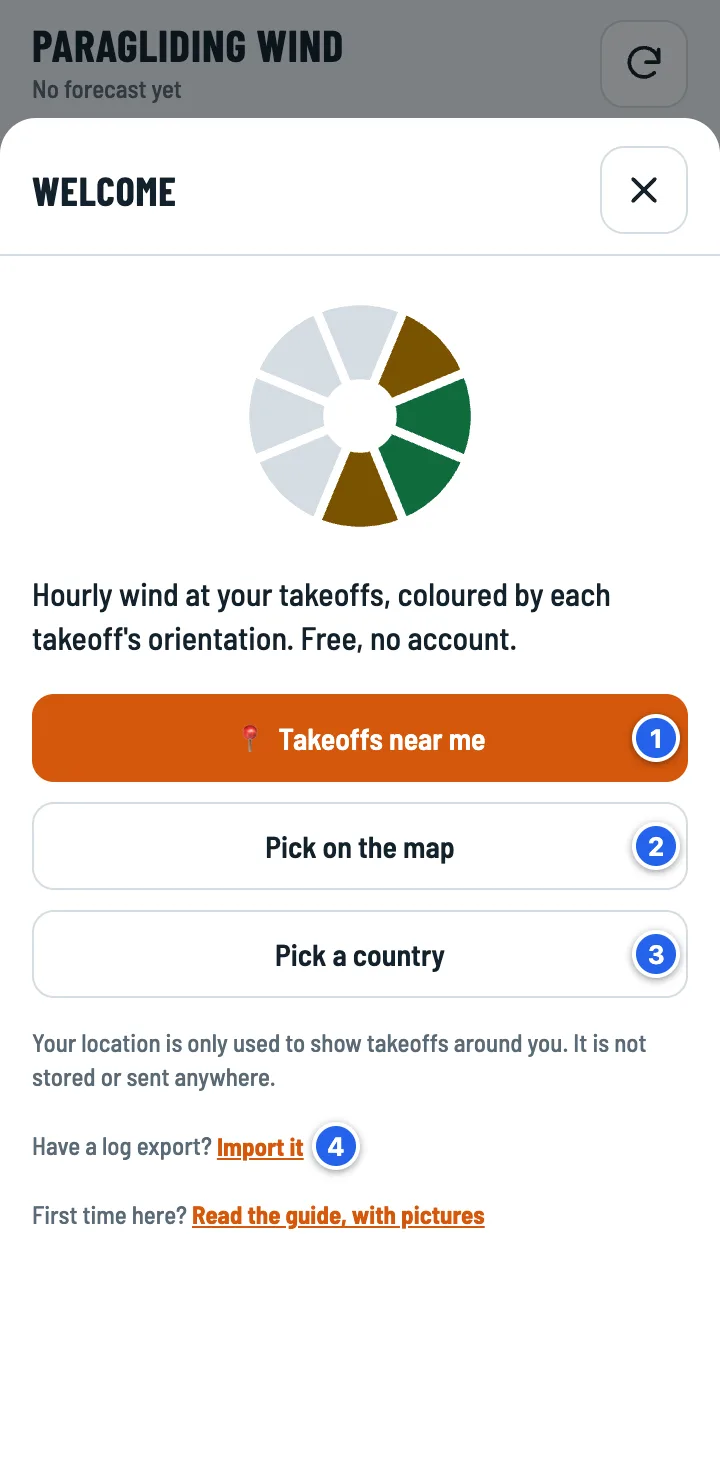
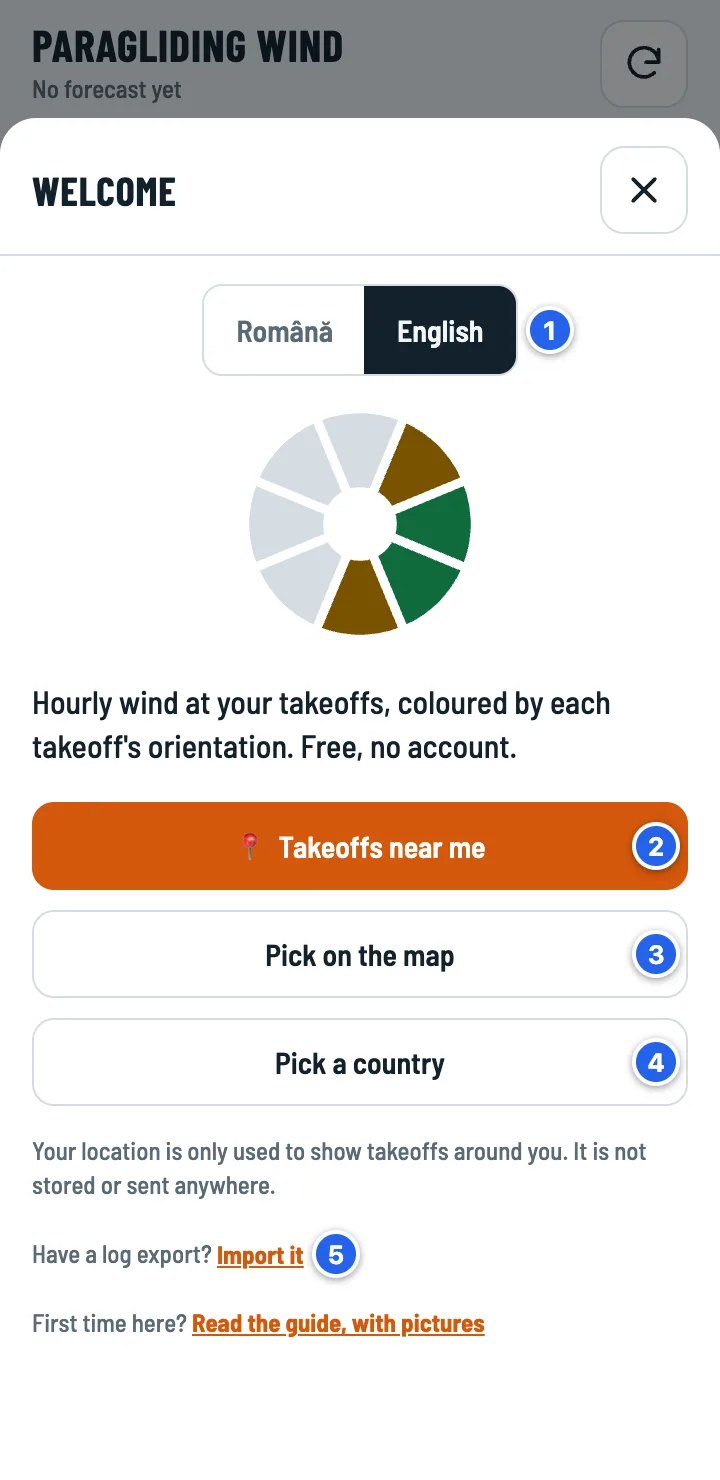
Prima pornire: alegerea limbii (Română / English) chiar în ecranul de bun venit
Până acum limba se schimba doar din Setări, care stau în spatele ecranului de bun venit.
Linkurile reîncarcă pagina cu ?lang= (alegerea se ține minte). Ghidul: pasul nou + captură.

Claude-Session: https://claude.ai/code/session_01AHnFa6r7pKe7n6SbnXpaSQ

diff --git a/docs/index.html b/docs/index.html
@@ -260,6 +260,7 @@ dialog.tall .sheet .body{flex:1;min-height:0;display:flex;flex-direction:column}
 #pkMap{position:absolute;inset:0;background:var(--sunk)}
 .pk-note{margin-top:12px;padding:12px;border-radius:12px;background:var(--sunk);font-size:14px}
 .pk-note b{display:block;margin-bottom:4px}
+.onb-lang{display:flex;justify-content:center;margin:2px 0 6px}
 .onb-hero{display:flex;justify-content:center;margin:8px 0 18px}
 .onb-hero svg{width:120px;height:120px}
 .onb-lead{margin:0;font-size:16px;color:var(--ink)}
@@ -520,7 +521,7 @@ function translateStatic(){
   $('#ver').textContent = t('Versiunea {v}', {v: VERSION});
   for (const a of document.querySelectorAll('#langSeg a')) a.setAttribute('aria-current', String(a.dataset.lang === LANG));
 }
-const VERSION = '5b63f25';
+const VERSION = '766553c';
 const SKY_ICONS = {"sun":[{"d":"M12 7.5 A4.5 4.5 0 1 0 12 16.5 A4.5 4.5 0 1 0 12 7.5 Z","r":"sun","f":1},{"d":"M12 2 V4.2 M12 19.8 V22 M2 12 H4.2 M19.8 12 H22 M4.9 4.9 L6.5 6.5 M17.5 17.5 L19.1 19.1 M4.9 19.1 L6.5 17.5 M17.5 6.5 L19.1 4.9","r":"sun"}],"moon":[{"d":"M19.5 14.6 A7.8 7.8 0 1 1 9.4 4.5 A6.2 6.2 0 0 0 19.5 14.6 Z","r":"ink"}],"partly":[{"d":"M6.03 10.77 A3.5 3.5 0 1 1 12 8.3","r":"sun"},{"d":"M8.5 2.6 V3.9 M2.6 8.3 H3.9 M4.3 4.1 L5.2 5 M12.7 4.1 L11.8 5","r":"sun"},{"d":"M9.5 20 H17.7 A3.4 3.4 0 0 0 18.2 13.23 A4.6 4.6 0 0 0 9.3 12.3 A3.85 3.85 0 0 0 9.5 20 Z","r":"ink"}],"cloud":[{"d":"M7 19 H17.2 A4.3 4.3 0 0 0 17.8 10.44 A5.8 5.8 0 0 0 6.6 9.9 A4.6 4.6 0 0 0 7 19 Z","r":"ink"}],"overcast":[{"d":"M5.2 14.2 A3.6 3.6 0 0 1 6.4 7.3 A5 5 0 0 1 15.6 6.4","r":"ink"},{"d":"M8 20.5 H17.5 A3.6 3.6 0 0 0 18 13.33 A5 5 0 0 0 8.2 12.4 A4.05 4.05 0 0 0 8 20.5 Z","r":"ink"}],"cumulus":[{"d":"M3.5 19 H20.5","r":"ink"},{"d":"M5.5 19 A3 3 0 0 1 6.5 13.2 A3.6 3.6 0 0 1 11.5 8.5 A4 4 0 0 1 18 12 A3.6 3.6 0 0 1 18.5 19","r":"ink"},{"d":"M20 3.6 A1.9 1.9 0 1 0 20 7.4 A1.9 1.9 0 1 0 20 3.6 Z","r":"sun","f":1}],"cirrus":[{"d":"M2.5 11 C6.5 8 10 13 15 10 M4.5 15.5 C8.5 13 12.5 17.5 20.5 14 M2.5 20 C5.5 18.5 8.5 21 12.5 19.5","r":"ink"},{"d":"M18 3.6 A2.3 2.3 0 1 0 18 8.2 A2.3 2.3 0 1 0 18 3.6 Z","r":"sun","f":1}],"fog":[{"d":"M4 7 H20 M6 11 H18 M4 15 H20 M7 19 H17","r":"ink"}],"rain":[{"d":"M7 15 H17.2 A4.3 4.3 0 0 0 17.8 6.44 A5.8 5.8 0 0 0 6.6 5.9 A4.6 4.6 0 0 0 7 15 Z","r":"ink"},{"d":"M8.5 18 L7.5 21 M12.5 18 L11.5 21 M16.5 18 L15.5 21","r":"water"}],"thunder":[{"d":"M7 15 H17.2 A4.3 4.3 0 0 0 17.8 6.44 A5.8 5.8 0 0 0 6.6 5.9 A4.6 4.6 0 0 0 7 15 Z","r":"ink"},{"d":"M13 14.5 L10.5 18.5 H13.5 L11.5 22.5","r":"sun"}],"snow":[{"d":"M7 15 H17.2 A4.3 4.3 0 0 0 17.8 6.44 A5.8 5.8 0 0 0 6.6 5.9 A4.6 4.6 0 0 0 7 15 Z","r":"ink"},{"d":"M8 18.5 V18.6 M12 19.5 V19.6 M16 18.5 V18.6 M10 22 V22.1 M14 22 V22.1","r":"water"}]};
 let HOLFUY = [];   // stațiile Holfuy din toată lumea, din holfuy.json (încărcat la pornire)
 const GOOGLE_CLIENT_ID = "649701687476-dkeevrquqrkupso4aeupqbou5lrfkrkl.apps.googleusercontent.com";
@@ -1816,7 +1817,10 @@ function renderOnb(){
   $('#onbTitle').textContent = [t('Bun venit'), t('Alege decolările'), t('Ce limite ai?')][onb.step];
   if (pick.mapObj && onb.step !== 1){ pick.mapObj.remove(); pick.mapObj = null; }
   if (onb.step === 0){
-    body.innerHTML = `<div class="onb-hero">${roseSvg([0,1,2,2,1,0,0,0], 'rose')}</div>
+    // Limba se alege chiar aici: Setările sunt în spatele acestui ecran. Linkul reîncarcă pagina în limba aleasă și o ține minte.
+    body.innerHTML = `<div class="onb-lang"><span class="seg2 lang" role="group" aria-label="${t('Limba')}">${[['ro', 'Română'], ['en', 'English']].map(([l, n]) =>
+        `<a href="?lang=${l}" data-lang="${l}" lang="${l}" aria-current="${l === LANG}">${n}</a>`).join('')}</span></div>
+      <div class="onb-hero">${roseSvg([0,1,2,2,1,0,0,0], 'rose')}</div>
       <p class="onb-lead">${t('Vântul pe ore la decolările tale, colorat după orientarea fiecăreia. Gratuit, fără cont.')}</p>
       <div class="stack">
         <button class="btn primary" type="button" data-onb="go" data-zone="near">${t('📍 Decolări lângă mine')}</button>

diff --git a/src/index.html b/src/index.html
@@ -260,6 +260,7 @@ dialog.tall .sheet .body{flex:1;min-height:0;display:flex;flex-direction:column}
 #pkMap{position:absolute;inset:0;background:var(--sunk)}
 .pk-note{margin-top:12px;padding:12px;border-radius:12px;background:var(--sunk);font-size:14px}
 .pk-note b{display:block;margin-bottom:4px}
+.onb-lang{display:flex;justify-content:center;margin:2px 0 6px}
 .onb-hero{display:flex;justify-content:center;margin:8px 0 18px}
 .onb-hero svg{width:120px;height:120px}
 .onb-lead{margin:0;font-size:16px;color:var(--ink)}
@@ -1414,7 +1415,10 @@ function renderOnb(){
   $('#onbTitle').textContent = [t('Bun venit'), t('Alege decolările'), t('Ce limite ai?')][onb.step];
   if (pick.mapObj && onb.step !== 1){ pick.mapObj.remove(); pick.mapObj = null; }
   if (onb.step === 0){
-    body.innerHTML = `<div class="onb-hero">${roseSvg([0,1,2,2,1,0,0,0], 'rose')}</div>
+    // Limba se alege chiar aici: Setările sunt în spatele acestui ecran. Linkul reîncarcă pagina în limba aleasă și o ține minte.
+    body.innerHTML = `<div class="onb-lang"><span class="seg2 lang" role="group" aria-label="${t('Limba')}">${[['ro', 'Română'], ['en', 'English']].map(([l, n]) =>
+        `<a href="?lang=${l}" data-lang="${l}" lang="${l}" aria-current="${l === LANG}">${n}</a>`).join('')}</span></div>
+      <div class="onb-hero">${roseSvg([0,1,2,2,1,0,0,0], 'rose')}</div>
       <p class="onb-lead">${t('Vântul pe ore la decolările tale, colorat după orientarea fiecăreia. Gratuit, fără cont.')}</p>
       <div class="stack">
         <button class="btn primary" type="button" data-onb="go" data-zone="near">${t('📍 Decolări lângă mine')}</button>

diff --git a/docs/ghid.html b/docs/ghid.html
@@ -115,8 +115,9 @@ footer{margin-top:44px;padding-top:20px;border-top:1px solid var(--line);color:v
     <h2><span class="n">1</span>Prima pornire</h2>
     <p>La prima deschidere alegi decolările care te interesează. Nu ai nevoie de cont.</p>
     <div class="step">
-      <a class="shot" href="img/guide/ro/start.webp"><img src="img/guide/ro/start.webp" width="720" height="1480" loading="lazy" decoding="async" alt="Ecranul de bun venit, cu butoanele Decolări lângă mine, Alege pe hartă și Alege țara"></a>
+      <a class="shot" href="img/guide/ro/start.webp"><img src="img/guide/ro/start.webp" width="720" height="1480" loading="lazy" decoding="async" alt="Ecranul de bun venit, cu alegerea limbii și butoanele Decolări lângă mine, Alege pe hartă și Alege țara"></a>
       <ol class="marks">
+        <li><b>Limba</b>: română sau engleză. O poți schimba oricând din <b>Setări</b>.</li>
         <li><b>Decolări lângă mine</b>: decolările din jurul tău, cele mai apropiate primele. Telefonul îți cere permisiunea pentru locație; poziția nu se salvează și nu pleacă nicăieri.</li>
         <li><b>Alege pe hartă</b>: aceleași decolări, pe hartă.</li>
         <li><b>Alege țara</b>, dacă nu vrei să dai locația sau zbori în altă parte.</li>

diff --git a/docs/guide.html b/docs/guide.html
@@ -115,8 +115,9 @@ footer{margin-top:44px;padding-top:20px;border-top:1px solid var(--line);color:v
     <h2><span class="n">1</span>First start</h2>
     <p>The first time you open the app, you pick the takeoffs you care about. No account needed.</p>
     <div class="step">
-      <a class="shot" href="img/guide/en/start.webp"><img src="img/guide/en/start.webp" width="720" height="1480" loading="lazy" decoding="async" alt="The welcome screen, with the buttons Takeoffs near me, Pick on the map and Pick a country"></a>
+      <a class="shot" href="img/guide/en/start.webp"><img src="img/guide/en/start.webp" width="720" height="1480" loading="lazy" decoding="async" alt="The welcome screen, with the language switch and the buttons Takeoffs near me, Pick on the map and Pick a country"></a>
       <ol class="marks">
+        <li><b>Language</b>: Romanian or English. You can change it any time in <b>Settings</b>.</li>
         <li><b>Takeoffs near me</b>: the takeoffs around you, nearest first. Your phone asks for location permission; your position is not stored and not sent anywhere.</li>
         <li><b>Pick on the map</b>: the same takeoffs, on a map.</li>
         <li><b>Pick a country</b>, if you'd rather not share your location or you fly somewhere else.</li>
